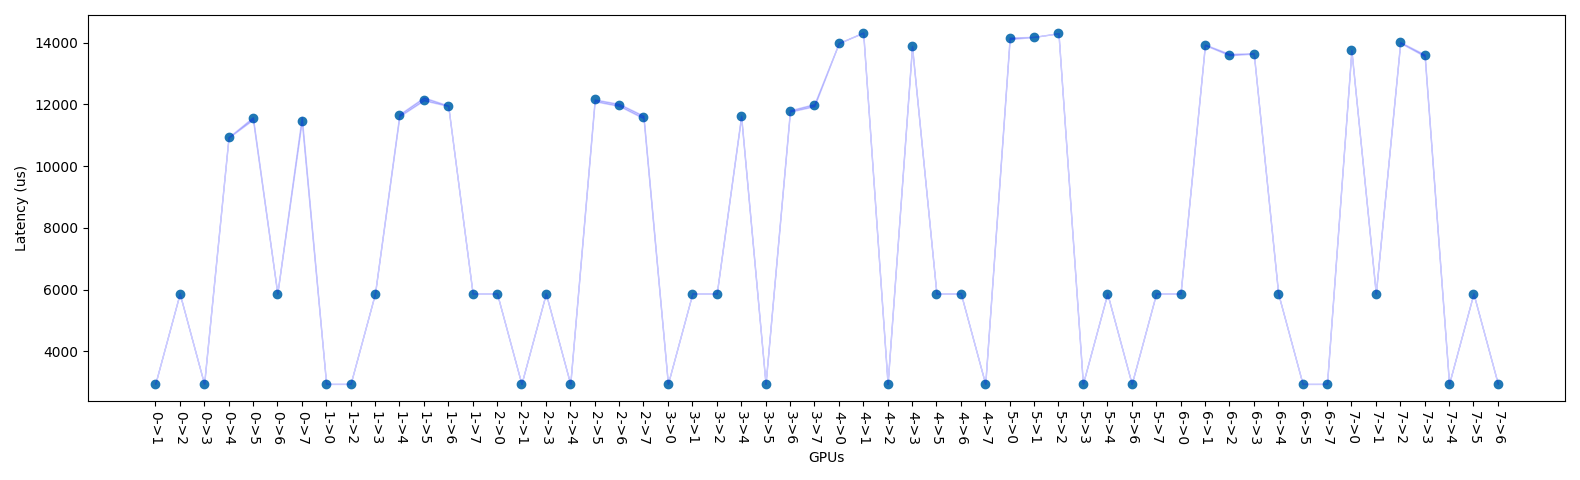
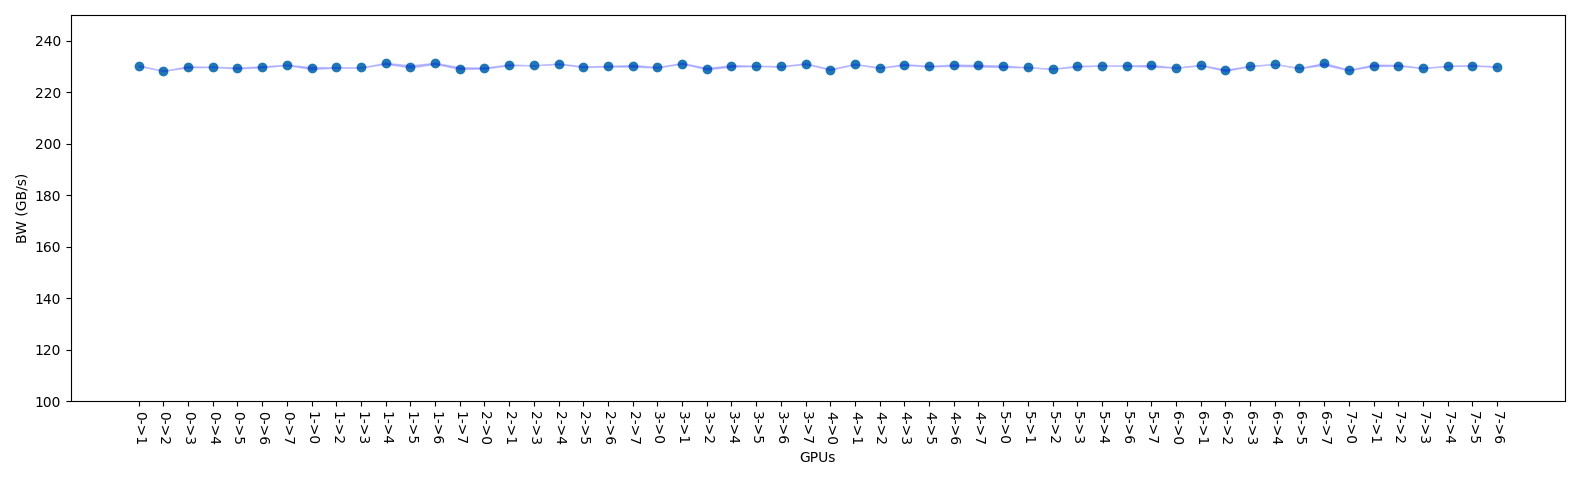
nvlink experiments

diff --git a/exps/monitor.py b/exps/monitor.py
@@ -1,0 +1,65 @@
+import subprocess
+from subprocess import PIPE
+import time
+
+# Define a function that runs the command and returns the output string
+def get_nvlink_bandwidth():
+  # Run the command and capture the output
+  output = subprocess.run(["nvidia-smi", "nvlink", "-gt", "d"], stdout=PIPE, stderr=PIPE, universal_newlines=True)
+  # Check if the command was successful
+  if output.returncode == 0:
+    # Return the output string
+    return output.stdout
+  else:
+    # Raise an exception with the error message
+    raise RuntimeError(output.stderr)
+
+tx_key = 'tx'
+rx_key = 'rx'
+
+def get_counter_values(output_nvlink: str):
+    lines = output_nvlink.splitlines()
+    current_gpu = -1
+    counter_values = {}
+
+    for line in lines:
+        if 'GPU' in line:
+            current_gpu += 1
+            if current_gpu not in counter_values:
+                counter_values[current_gpu] = {tx_key: [], rx_key: []}
+
+        if 'Link' in line:
+            line = line.strip()
+            parts = line.split()
+            counter_val = int(parts[4])
+            if 'Tx' in line:
+                counter_values[current_gpu][tx_key].append(counter_val)
+            if 'Rx' in line:
+                counter_values[current_gpu][rx_key].append(counter_val)
+
+    return counter_values
+
+def print_data(current_values, init_counter_values, key_type):
+    for gpu in current_values:
+        nvlin_id = 0
+        for x, y in zip(init_counter_values[gpu][key_type], current_values[gpu][key_type]):
+            print('GPU {}/{}, link {}, {} KB'.format(gpu, key_type, nvlin_id, y - x))
+            nvlin_id += 1
+
+# Call the function and print the output string
+output_string = get_nvlink_bandwidth()
+init_counter_values = get_counter_values(output_string)
+
+
+while True:
+    time.sleep(0.05)
+    output_string = get_nvlink_bandwidth()
+    current_values = get_counter_values(output_string)
+    print_data(current_values, init_counter_values, tx_key)
+    print_data(current_values, init_counter_values, rx_key)
+    
+# TODO: 
+# 1. How often can we poll?
+# 2. Tx/Rx vs time plot.
+# 3. WHy not put 12 nvswitches on a board?
+# 4. 8 choose 7 measurements 

diff --git a/exps/view_bandwidth.py b/exps/view_bandwidth.py
@@ -1,0 +1,44 @@
+import matplotlib.pyplot as plt
+
+# GPU 5/rx, link 8, 63626086 KB
+
+def get_x_ys(file_name, gpu_id, direction):
+    xs = []
+    ys = []
+    labels = []
+    with open(file_name, 'r') as log_file:
+        for line in log_file:
+            if 'GPU {}'.format(gpu_id) in line and direction in line:
+                line = line.strip()
+                parts = line.split()
+                parts[3] = parts[3].replace(',', '')
+                link_id = int(parts[3])
+                data_size = int(parts[4]) / 1024
+                if len(xs) < link_id + 1:
+                    print('Link: {}'.format(link_id))
+                    xs.insert(link_id, [])
+                    ys.insert(link_id, [])
+                    labels.insert(link_id, 'Link: {}'.format(link_id))
+                ys[link_id].append(data_size)
+                xs[link_id].append(len(xs[link_id]) + 1)
+    return xs, ys, labels
+
+gpus = [i for i in range(8)]
+directions = ['tx', 'rx']
+
+for gpu in gpus:
+    for direction in directions:
+        xs, ys, labels = get_x_ys('gpu_bandwidth.log', gpu, 'tx')
+
+        fig, ax = plt.subplots(figsize=(12.8, 4.8))
+
+        for i in range(len(xs)):
+            # Generate a random linestyle from the list
+            linestyle = 'solid'
+            # Plot the line with the color and linestyle and label it with i
+            ax.plot(xs[i], ys[i], linestyle=linestyle, label=labels[i], lw=2)
+
+        ax.legend(loc='upper center', bbox_to_anchor=(0.5, 1.2), ncol=6)
+        ax.set_ylabel('Data (MB)')
+        plt.tight_layout()
+        plt.savefig('nvlink_GPU{}_{}.png'.format(gpu, direction))

diff --git a/exps/latency.py b/exps/latency.py
@@ -1,8 +1,12 @@
 import matplotlib.pyplot as plt
 import numpy as np
+import sys
+
+data_size = sys.argv[1]
+data_size_mb = float(data_size)
 
 def get_xs_ys():
-    with open('latency.log') as log_file:
+    with open('latency_{}.log'.format(data_size)) as log_file:
         xs = []
         ys = []
         current_y = []
@@ -23,7 +27,7 @@ def get_xs_ys():
                 print(line)
                 parts = line.split()
                 time_val = float(parts[5])
-                current_y.append(time_val)
+                current_y.append((data_size_mb / 1024) * 10**6 / time_val)
 
         if len(current_y) > 0:
             ys.append(current_y)
@@ -55,7 +59,8 @@ ax.scatter(xs, avg)
 ax.fill_between(xs, p25, p75, color='blue', alpha=0.2)
 ax.set_xlabel('GPUs')
 plt.xticks(rotation=270)
-ax.set_ylabel('Latency (us)')
+plt.ylim((100, 280))
+ax.set_ylabel('BW (GB/s)')
 
 plt.tight_layout()
-plt.savefig('latency.png')
+plt.savefig('bw_{}MB.png'.format(data_size))

diff --git a/exps/plot.py b/exps/plot.py
@@ -38,6 +38,7 @@ def get_x_ys(exp_type, min_gpus, max_gpus):
                 line = line.strip()
                 if 'float' not in line:
                     continue
+                line = line.replace('[STAT]:', '')
                 parts = line.split()
                 # 0 - data size
                 # 7 - bus bw out of order
